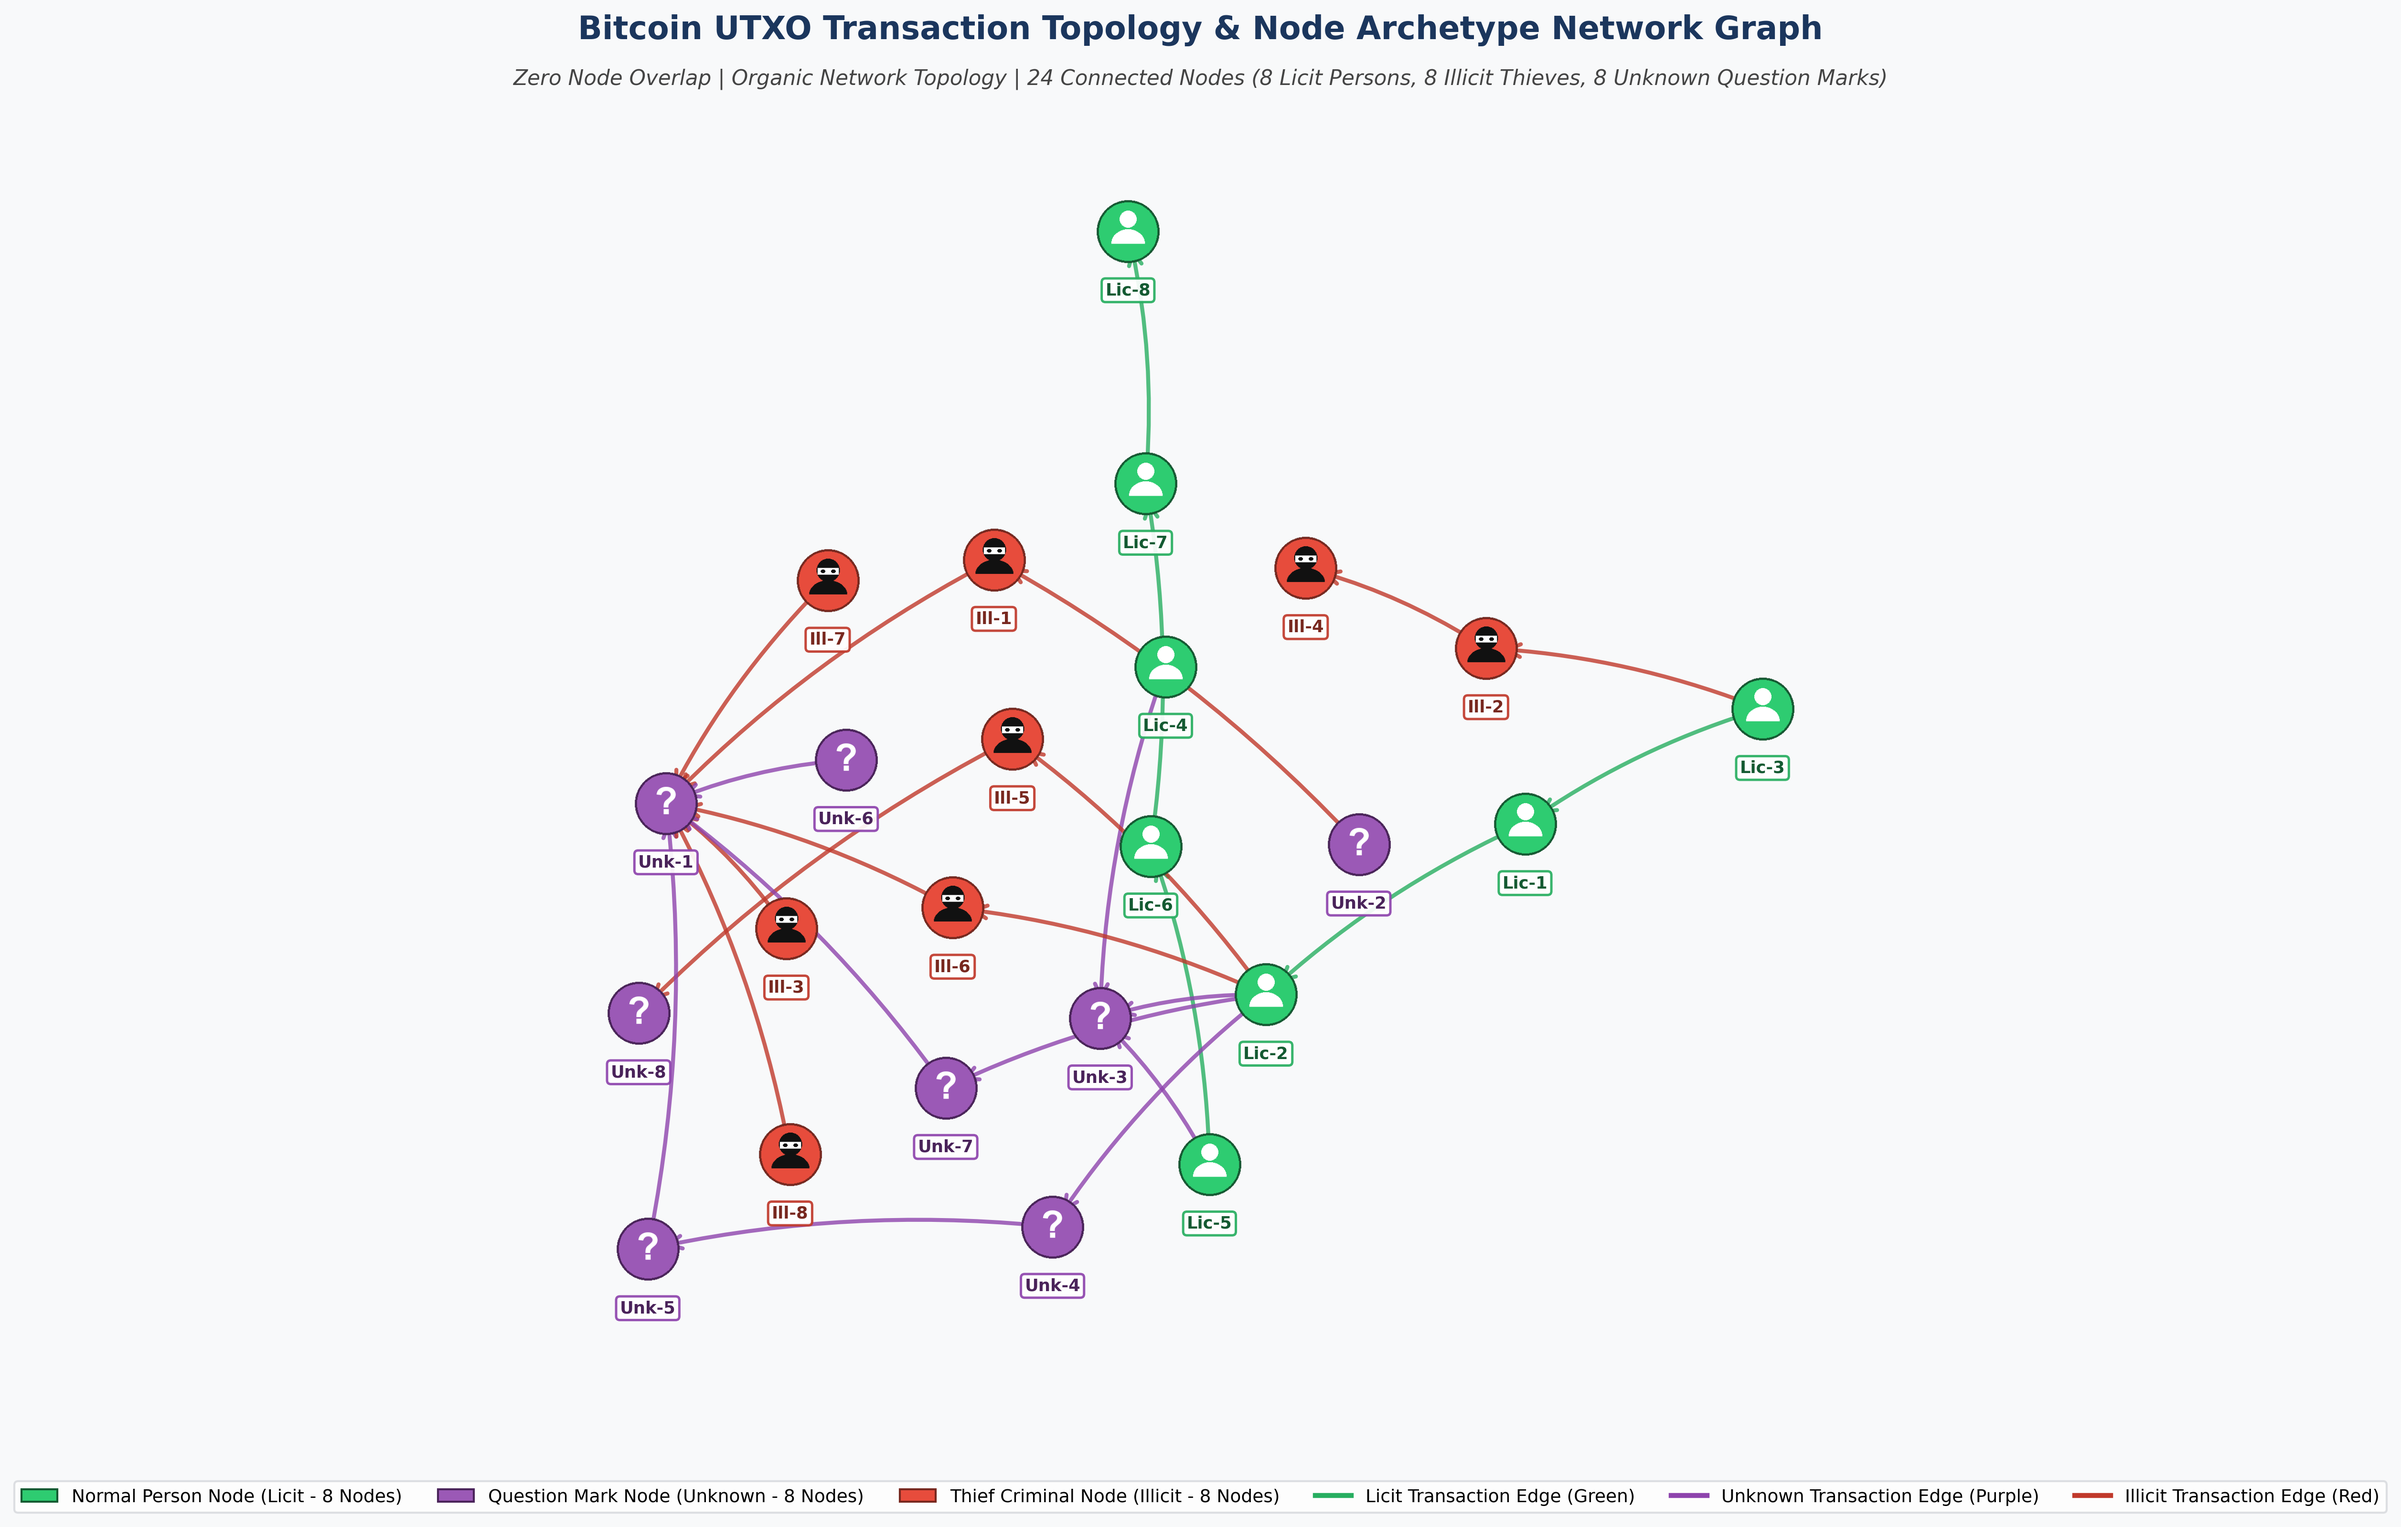
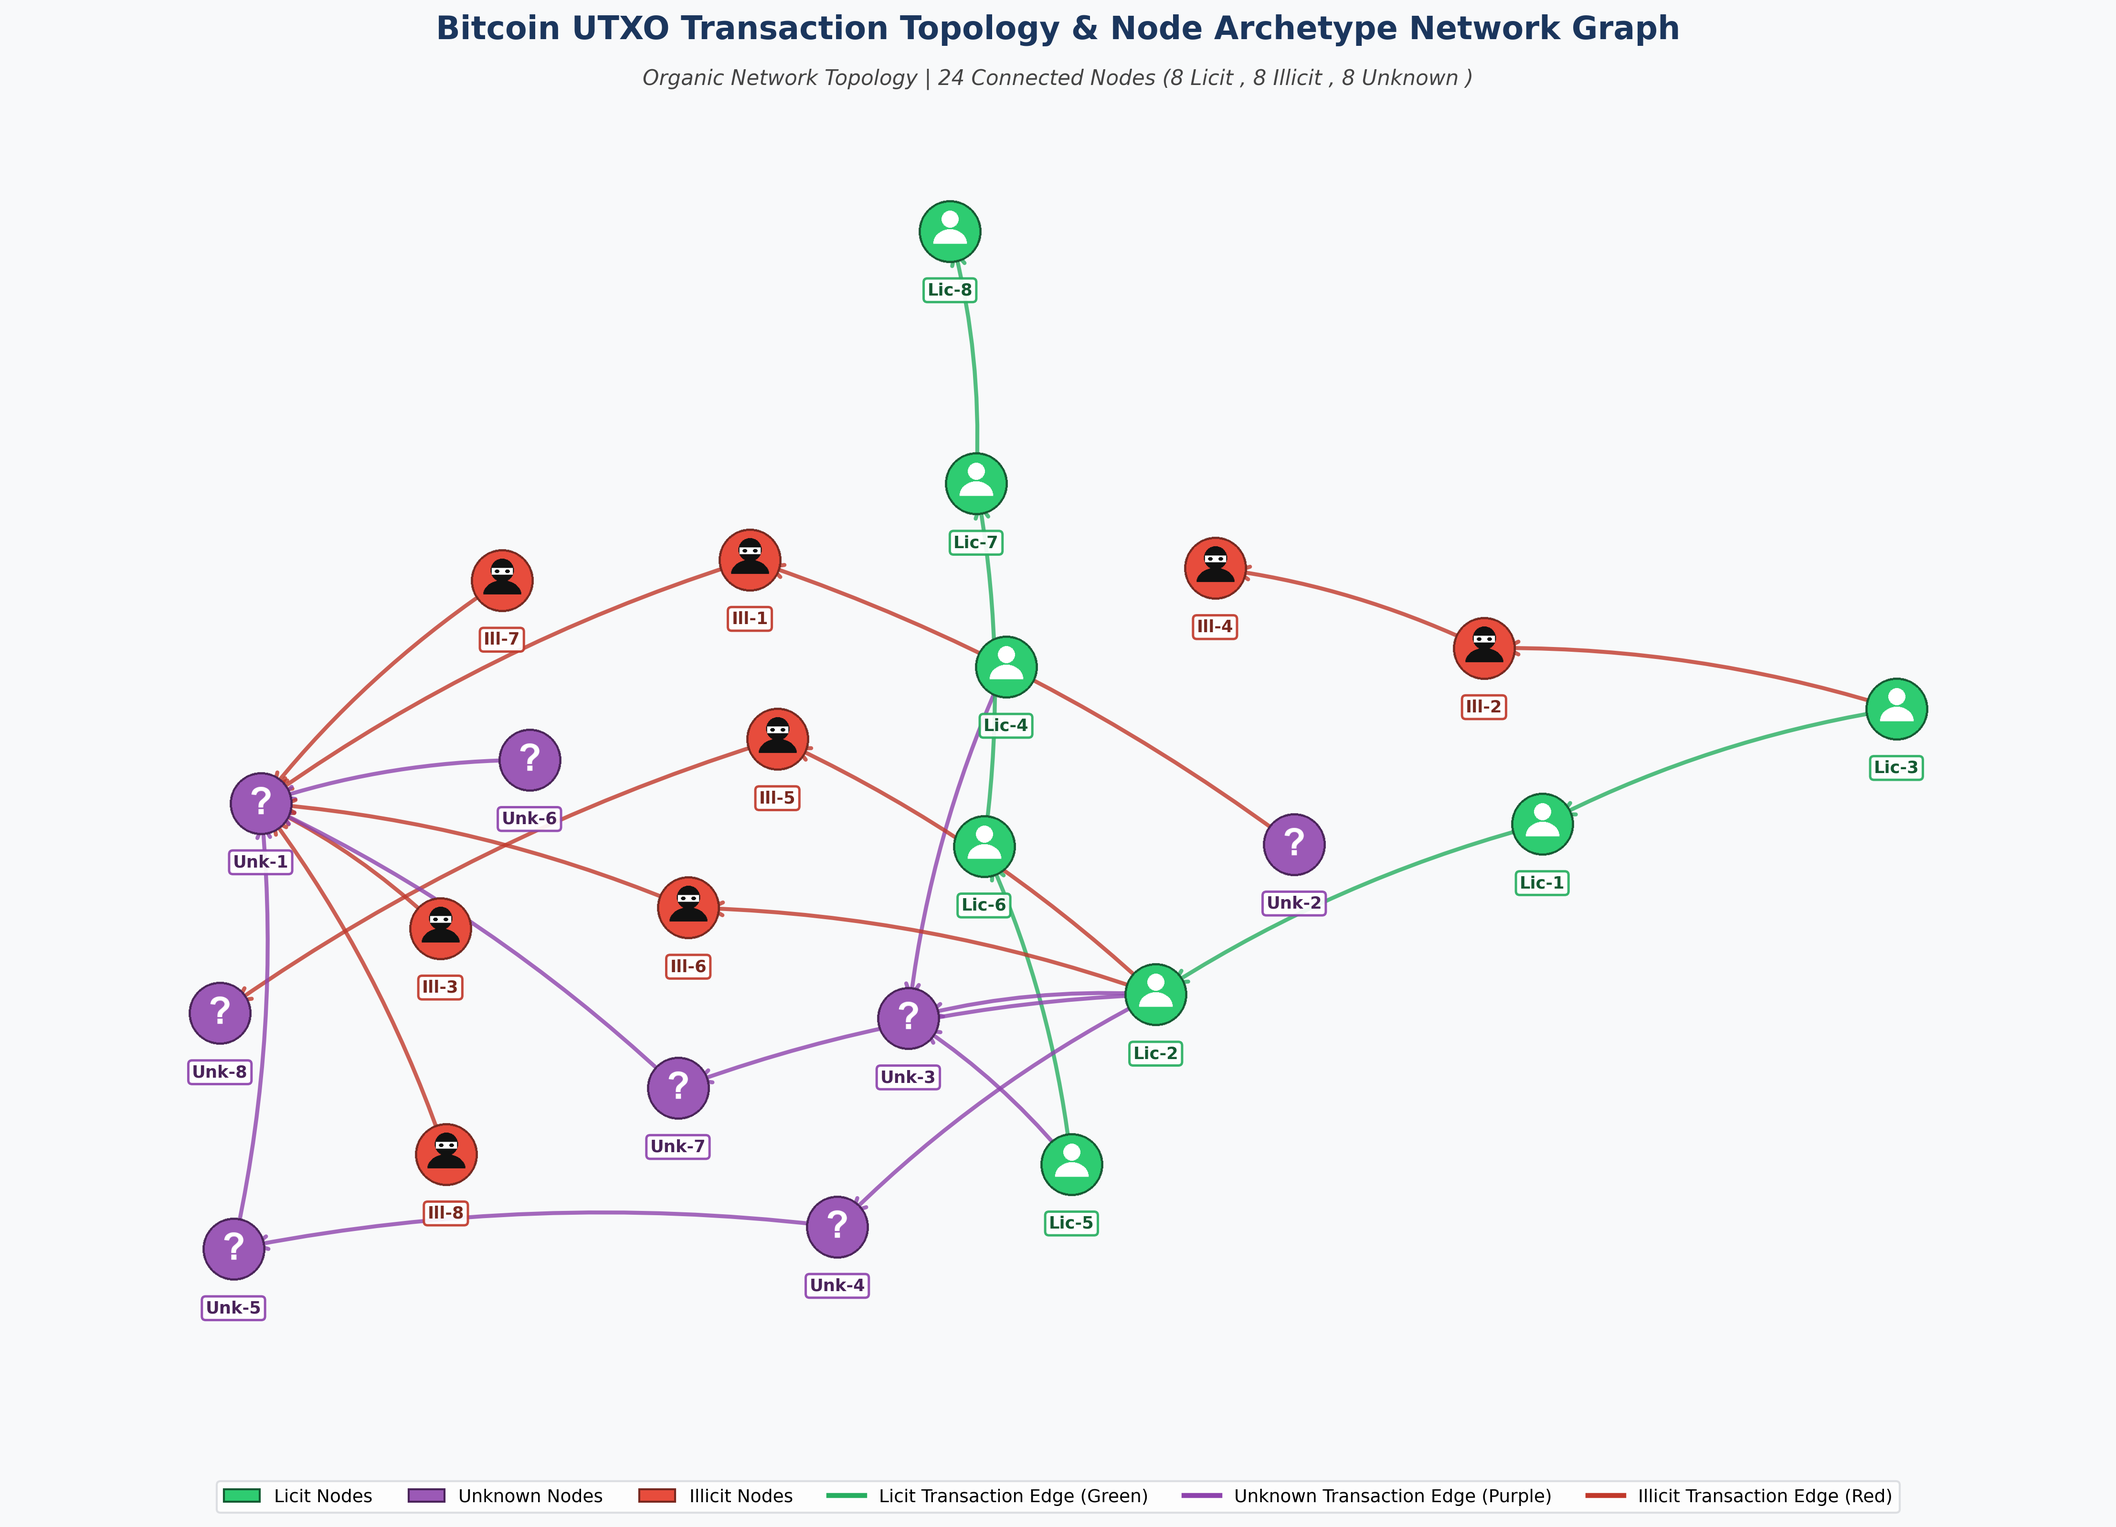
docs: update legend labels in transaction graph topology script

diff --git a/create_transaction_graph_plot.py b/create_transaction_graph_plot.py
@@ -230,14 +230,14 @@ def generate_topology_graph():
 
     # Title & Subtitle
     plt.title("Bitcoin UTXO Transaction Topology & Node Archetype Network Graph", fontsize=16, fontweight='bold', pad=22, color='#1B365D')
-    plt.suptitle("Zero Node Overlap | Organic Network Topology | 24 Connected Nodes (8 Licit Persons, 8 Illicit Thieves, 8 Unknown Question Marks)", fontsize=10.5, style='italic', color='#444444', y=0.925)
+    plt.suptitle("Organic Network Topology | 24 Connected Nodes (8 Licit , 8 Illicit , 8 Unknown )", fontsize=10.5, style='italic', color='#444444', y=0.925)
 
     # Custom Legend
     legend_elements = [
         # Nodes / Icons
-        Patch(facecolor='#2ECC71', edgecolor='#145A32', label='Normal Person Node (Licit - 8 Nodes)'),
-        Patch(facecolor='#9B59B6', edgecolor='#4A235A', label='Question Mark Node (Unknown - 8 Nodes)'),
-        Patch(facecolor='#E74C3C', edgecolor='#78281F', label='Thief Criminal Node (Illicit - 8 Nodes)'),
+        Patch(facecolor='#2ECC71', edgecolor='#145A32', label='Licit Nodes'),
+        Patch(facecolor='#9B59B6', edgecolor='#4A235A', label='Unknown Nodes'),
+        Patch(facecolor='#E74C3C', edgecolor='#78281F', label='Illicit Nodes'),
         # Edges
         Line2D([0], [0], color=COLOR_LICIT_EDGE, lw=2.5, label='Licit Transaction Edge (Green)'),
         Line2D([0], [0], color=COLOR_UNKNOWN_EDGE, lw=2.5, label='Unknown Transaction Edge (Purple)'),
